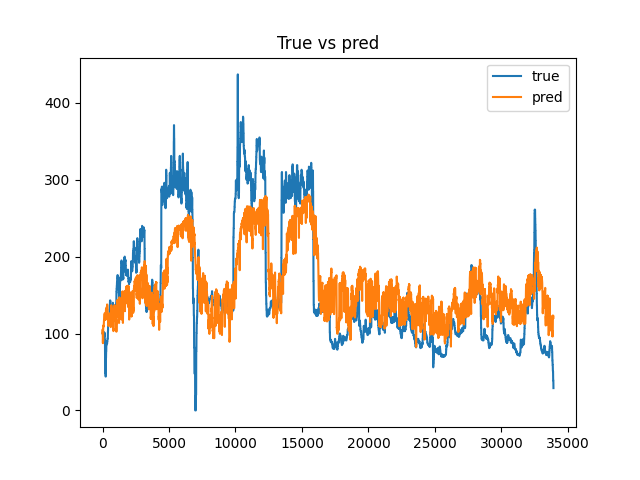
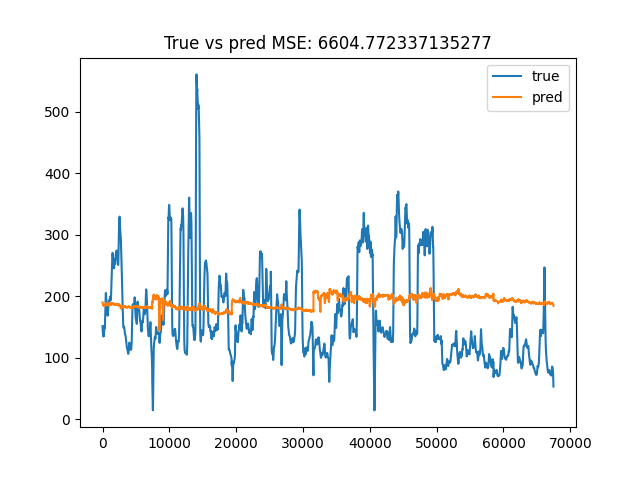
Add option of using target mean window

diff --git a/src/preprocess_utils.py b/src/preprocess_utils.py
@@ -86,41 +86,48 @@ def move_column(df, column_name, new_idx):
     return df[reordered_columns]
 
 
-def split_sequences(sequences, hist_size, n_steps_out=1):
+def split_sequences(sequences, hist_size, target_mean_window=1, n_steps_out=1):
     """Split data sequence into samples with matching input and targets.
 
-    Parameters
-    ----------
-    sequences : array
-        The matrix containing the sequences, with the targets in the first
-        column.
-    hist_size : int
-        Number of time steps to include in each sample, i.e. how much history
-        should be matched with a given target.
-    n_steps_out : int
-        Number of output steps.
+    Args:
+        sequences (array): The matrix containing the sequences, with the
+            targets in the first column.
+        hist_size (int): Number of time steps to include in each sample, i.e.
+            how much history should be matched with a given target.
+        target_mean_window (int): Target value will be set as a mean value over
+            a window (ending on the current time step) with a size specified
+            with this parameter. Default=1, i.e. only one value is used as
+            target.
+        n_steps_out (int): Number of output steps.
 
-    Returns
-    -------
-    X : array
-        The input samples.
-    y : array
-        The targets.
+    Returns:
+        X (array): The input samples.
+        y (array): The targets.
 
     """
     X, y = list(), list()
 
     for i in range(len(sequences)):
+
         # find the end of this pattern
         end_ix = i + hist_size
         out_end_ix = end_ix + n_steps_out
+
+        # find start of target window
+        target_start_ix = out_end_ix - target_mean_window
+
         # check if we are beyond the dataset
         if out_end_ix > len(sequences):
             break
-        # Delete target col from sequences, which leaves input matrix
+       
+        # Select all cols from sequences except target col, which leaves inputs
         seq_x = sequences[i:end_ix, 1:]
-        # Extract targets from sequences
-        seq_y = sequences[end_ix:out_end_ix, 0]
+
+        if target_mean_window > 1:
+            seq_y = np.mean(sequences[target_start_ix: out_end_ix, 0])
+        else:
+            # Extract targets from sequences
+            seq_y = sequences[end_ix:out_end_ix, 0]
 
         X.append(seq_x)
         y.append(seq_y)

diff --git a/src/evaluate.py b/src/evaluate.py
@@ -44,19 +44,20 @@ def evaluate(model_filepath, test_filepath):
 
     print("MSE: {}".format(mse))
 
-    plot_prediction(y_test, y_pred)
+    plot_prediction(y_test, y_pred, info="MSE: {}".format(mse))
 
     with open(METRICS_FILE_PATH, "w") as f:
         json.dump(dict(mse=mse), f)
 
 
-def plot_prediction(y_true, y_pred, include_input=True):
+def plot_prediction(y_true, y_pred, include_input=True, info=""):
     """Plot the prediction compared to the true targets.
 
     Args:
         y_true (array): True targets.
         y_pred (array): Predicted targets.
         include_input (bool): Whether to include inputs in plot. Default=True.
+        info (str): Information to include in the title string.
 
     """
 
@@ -68,7 +69,7 @@ def plot_prediction(y_true, y_pred, include_input=True):
     plt.plot(y_pred, label="pred")
 
     plt.legend()
-    plt.title("True vs pred", wrap=True)
+    plt.title("True vs pred " + info, wrap=True)
     plt.autoscale()
     plt.savefig(PREDICTION_PLOT_PATH)
     plt.show()

diff --git a/src/sequentialize.py b/src/sequentialize.py
@@ -55,7 +55,7 @@ def sequentialize(filepaths):
         data = np.hstack((y, X))
 
         # Split into sequences
-        X, y = split_sequences(data, hist_size)
+        X, y = split_sequences(data, hist_size, target_mean_window)
 
         # Save X and y into a binary file
         np.savez(

diff --git a/src/utils.py b/src/utils.py
@@ -15,6 +15,7 @@ def get_terminal_size():
     """Get size of terminal.
 
     Returns
+    -------
     rows, columns : (int, int)
         Number of rows and columns in current terminal window.
 
